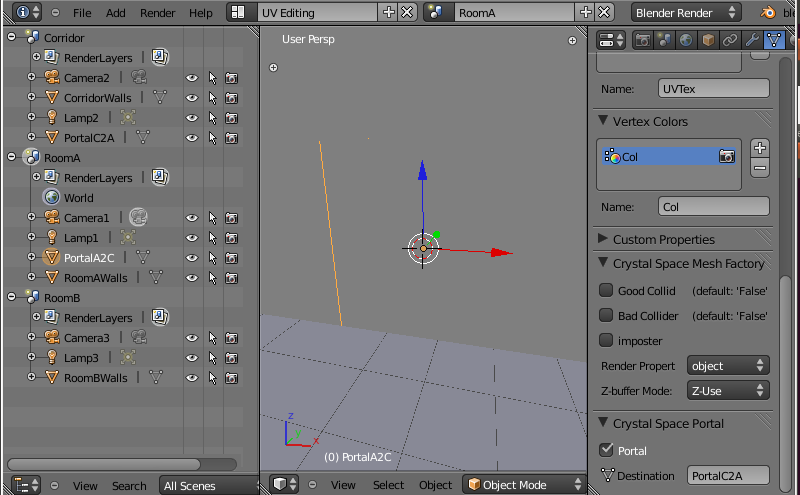
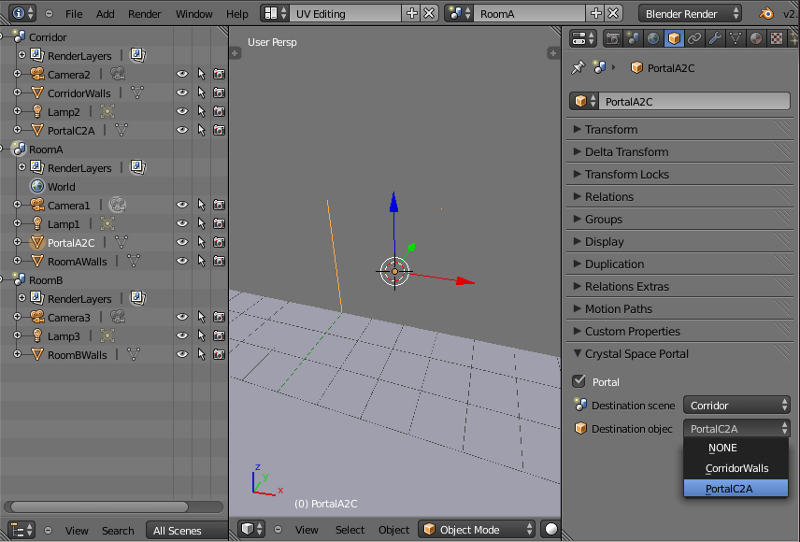
master header files: Automated master header file repair. Visual-C++ project files: Automated Visual-C++ project file repair. Texinfo files: Automated Texinfo @node and @menu repair. Swig Python files: Automated Swig Python file repair. Swig Perl5 files: Automated Swig Perl5 file repair. User's Manu

diff --git a/CS/trunk/docs/html/manual/io_005fscene_005fcs-Portals.html b/CS/trunk/docs/html/manual/io_005fscene_005fcs-Portals.html
@@ -67,9 +67,9 @@ in the file is exported as a Crystal Space sector, and the use of specific meshe
 define portals between them.
 </p>
 <p>This is made using the <samp>&lsquo;Crystal Space Portal&rsquo;</samp> panel that is found in the
-<samp>&lsquo;Object Data&rsquo;</samp> context of the <samp>&lsquo;Properties&rsquo;</samp> window:
+<samp>&lsquo;Object&rsquo;</samp> context of the <samp>&lsquo;Properties&rsquo;</samp> window:
 </p>
-<p><img src="content/blender/io_scene_cs_portal.png" alt="content/blender/io_scene_cs_portal">
+<p><img src="content/blender/io_scene_cs_portal_1.png" alt="content/blender/io_scene_cs_portal_1">
 </p>
 <a name="1"></a>
 <h4 class="subsubheading"> Creating portals </h4>
@@ -83,16 +83,29 @@ limitation and a portal is allowed to lead to the same sector than the starting 
 <p>You must pay attention to the shape of your source mesh as well as to the order of its
 vertices. The shape of the mesh will be used as the one of the Crystal Space portal, but
 one tricky problem is that the order of creation of the vertices will also define its
-orientation. For a correct behavior, be sure to create the vertices of your source mesh
-in clockwise order when you look at the portal.
+orientation. For a correct behavior, be sure to <strong>create the vertices of your source mesh
+in clockwise order when you look at the portal</strong>.
 </p>
 <p>Unless you plan to create another portal to go back in the other direction, the actual
 shape of the destination mesh has no importance at all, only its position will be important.
 </p>
 <p>Once the two portal meshes are created, select the source mesh, go to the
-<samp>&lsquo;Crystal Space Portal&rsquo;</samp> panel, and activate the <samp>&lsquo;Portal&rsquo;</samp> checkbox. A text entry
-<samp>&lsquo;Destination mesh&rsquo;</samp> appears, you must now type into it the name of the destination mesh
-of the portal. Once done, the object will be exported as a portal instead of a mesh.
+<samp>&lsquo;Crystal Space Portal&rsquo;</samp> panel, and activate the <samp>&lsquo;Portal&rsquo;</samp> checkbox. A drop-down
+list <samp>&lsquo;Destination scene&rsquo;</samp> appears, you must now select the destination scene
+of the portal. You can reset the portal configuration by selecting scene <samp>&lsquo;NONE&rsquo;</samp>. 
+Once le scene is selected, a second drop-down list <samp>&lsquo;Destination object&rsquo;</samp> and a button 
+<samp>&lsquo;Create destination portal&rsquo;</samp> appear:
+</p>
+<p><img src="content/blender/io_scene_cs_portal_2.png" alt="content/blender/io_scene_cs_portal_2">
+</p>
+<p>The list is composed of all mesh objects belonging to selected scene. Once its destination
+mesh is selected, current object will be exported as a portal instead of a mesh. Select 
+<samp>&lsquo;NONE&rsquo;</samp> entry to reset the selection tool.
+</p>
+<p>Commonly, the destination object will be defined as a portal that leads back to the 
+source portal. To do this, select the object, check its <samp>&lsquo;Portal&rsquo;</samp> option 
+in <samp>&lsquo;Crystal Space Portal&rsquo;</samp> panel, then select its destination scene and object. 
+Both objects will be exported as portals instead of meshes.
 </p>
 <p>You must also pay attention to the relative transform of the source and destination meshes
 since it will define the warping transform that is applied when crossing the portal. If the
@@ -100,6 +113,21 @@ source and the destination of the portal are the same (i.e. there is no warping 
 then the two meshes should be at the same position.
 </p>
 <a name="2"></a>
+<h4 class="subsubheading"> Automatic creation of destination portal </h4>
+
+<p>Last section explains how to manually create two corresponding portals. Here is a tool 
+to automatically generate the destination portal of a mesh.
+</p>
+<p>Unlike preceding method where a corresponding mesh had to be manually created, then 
+selected as destination object of a portal and finally configured itself as a portal,
+all these steps are automatically performed by button '<strong>Create destination portal</strong>'.
+</p>
+<p>Once the source mesh is correctly created, select it, check its <samp>&lsquo;Portal&rsquo;</samp> option and select 
+its destination scene. Instead of selecting a destination object, click on the <samp>&lsquo;Create 
+destination portal&rsquo;</samp> button. It will generate an identical mesh of current one (same position and 
+orientation) in the destination scene and configure it as a portal to go back to current scene.
+</p>
+<a name="3"></a>
 <h4 class="subsubheading"> The <samp>&lsquo;portaltut&rsquo;</samp> example file </h4>
 
 <p>As an example we will follow the making of the file <tt>&lsquo;portaltut.blend&rsquo;</tt> that can be
@@ -132,7 +160,7 @@ Create the source mesh of the portal: add a new dummy mesh, e.g. a cube, then go
 </p>
 </li><li>
 Create the vertices of the source mesh: use <samp>&lsquo;Ctrl-LMB&rsquo;</samp> for all vertices, being sure to
-turn in clockwise order. You can create a face after that.
+turn in clockwise order. You can create a face after that by pressing <samp>&lsquo;F&rsquo;</samp>.
 
 <p><img src="content/blender/portals_04.png" alt="content/blender/portals_04">
 </p>
@@ -143,10 +171,17 @@ the mesh has been renamed purposely <samp>&lsquo;PortalA2C&rsquo;</samp>.
 <p><img src="content/blender/portals_05.png" alt="content/blender/portals_05">
 </p>
 </li><li>
-Now we will create the destination mesh: in object mode, select your source mesh and duplicate it with
-<samp>&lsquo;Shift-D + LMB&rsquo;</samp>, create a link to it in the scene <samp>&lsquo;Corridor&rsquo;</samp> with <samp>&lsquo;Ctrl-L&rsquo;</samp>
-then <samp>&lsquo;Objects to scene&rsquo;</samp>, delete the copy in the first scene, then finally rename your
-destination mesh into <samp>&lsquo;PortalC2A&rsquo;</samp>.
+Now we will create the destination mesh. There is two ways to do this: a manual creation
+or an automatic creation.
+
+<p>1. Manual creation of destination portal:
+</p>
+<ul>
+<li>
+In object mode, select your source mesh and duplicate it with <samp>&lsquo;Shift-D + LMB&rsquo;</samp>, create 
+a link to it in the scene <samp>&lsquo;Corridor&rsquo;</samp> with <samp>&lsquo;Ctrl-L&rsquo;</samp> then <samp>&lsquo;Objects to scene&rsquo;</samp>, 
+delete the copy in the first scene, then finally rename your destination mesh into 
+<samp>&lsquo;PortalC2A&rsquo;</samp>.
 
 </li><li>
 Re-orient the vertices of the destination mesh: since the mesh is a copy of the original
@@ -157,15 +192,37 @@ this, go to <samp>&lsquo;Edit&rsquo;</samp> mode, select all the vertices and ro
 <p><img src="content/blender/portals_06.png" alt="content/blender/portals_06">
 </p>
 </li><li>
-Now that both meshes have been created, we can define them as portals. Select the source mesh,
-go to the <samp>&lsquo;Crystal Space Portal&rsquo;</samp> panel (in the <samp>&lsquo;Object Data&rsquo;</samp> context of the
-<samp>&lsquo;Properties&rsquo;</samp> window), select the checkbox <samp>&lsquo;Portal&rsquo;</samp>, and enter the name of the
-destination mesh, i.e. <samp>&lsquo;PortalC2A&rsquo;</samp>. Repeat the same process for the destination mesh in
-order to define a portal back to the first room.
+Now that both meshes have been created, we can define them as portals. Select the source mesh 
+<samp>&lsquo;PortalA2C&rsquo;</samp>, go to the <samp>&lsquo;Crystal Space Portal&rsquo;</samp> panel (in the <samp>&lsquo;Object&rsquo;</samp> context of the
+<samp>&lsquo;Properties&rsquo;</samp> window), check the <samp>&lsquo;Portal&rsquo;</samp> property, select destination scene, i.e. 
+<samp>&lsquo;Corridor&rsquo;</samp>, and destination mesh, i.e. <samp>&lsquo;PortalC2A&rsquo;</samp>.
 
 <p><img src="content/blender/portals_07.png" alt="content/blender/portals_07">
 </p>
+<p>Repeat the same process for the destination mesh in order to define a portal back to the first room.
+</p>
+</li></ul>
+
+<p>2. Automatic creation of destination portal:
+</p>
+<ul>
+<li>
+In object mode, select your source mesh <samp>&lsquo;PortalA2C&rsquo;</samp>, go to the <samp>&lsquo;Crystal Space Portal&rsquo;</samp> 
+panel, check the <samp>&lsquo;Portal&rsquo;</samp> property and select the destination scene, i.e. <samp>&lsquo;Corridor&rsquo;</samp>.
+
+<p><img src="content/blender/portals_08.png" alt="content/blender/portals_08">
+</p>
 </li><li>
+Then press button <samp>&lsquo;Create destination portal&rsquo;</samp>. It will automatically create a destination 
+mesh called <samp>&lsquo;portaltoRoomA_1&rsquo;</samp> in <samp>&lsquo;Corridor&rsquo;</samp> scene and configure it as a portal leading 
+back to current scene <samp>&lsquo;RoomA&rsquo;</samp>.
+
+<p><img src="content/blender/portals_09.png" alt="content/blender/portals_09">
+</p>
+</li></ul>
+
+</li><li>
+
 Repeat the process for the other portals leading to the second room. Here is the result once
 you press the <samp>&lsquo;Export and Run&rsquo;</samp> button:
 
@@ -173,23 +230,25 @@ you press the <samp>&lsquo;Export and Run&rsquo;</samp> button:
 </p>
 </li></ul>
 
-<a name="3"></a>
+<a name="4"></a>
 <h4 class="subsubheading"> Troubleshooting </h4>
 
 <p>If some of the portals don't look ok while exporting Blender worlds, check that:
 </p>
 <ul>
 <li>
-the name of the destination mesh has been accepted, i.e. the error message
-<samp>&lsquo;ERROR: unknown mesh name&rsquo;</samp> does not appear in the portal tool panel.
+the name of the destination object is valid, i.e. the error message
+<samp>&lsquo;WARNING: destination objet has been deleted!&rsquo;</samp> does not appear in the portal tool panel.
 </li><li>
 there is no error message on the console.
 </li><li>
 you have defined the vertices of the portal in clockwise order (if done wrong, you
-may typically see some problems with the triangles of the portal).
+may typically see a black face in place of your portal).
 </li><li>
-the destination mesh is not linked at several places in the scenes (in this case, the
-script will randomly pick one of those linked meshes).
+the destination mesh is not linked to the source mesh, i.e. both objects don't share the same 
+datablock (in this case, the script won't be able to generate valid portals since both of them 
+share the same vertex list, making impossible to define one portal in clockwise order and the 
+other in counter-clockwise order).
 </li><li>
 the relative position of the source and the destination mesh corresponds correctly
 to the warping transform of the portal (i.e. they are at the same position if the

diff --git a/CS/trunk/include/csver.h b/CS/trunk/include/csver.h
@@ -57,7 +57,7 @@
  */
 //CS_RCSREV_OFFSET 513
 #ifndef CS_VERSION_RCSREV
-#define CS_VERSION_RCSREV	3845
+#define CS_VERSION_RCSREV	3849
 #endif
 
 /**\name Version number definitions (numeric)
